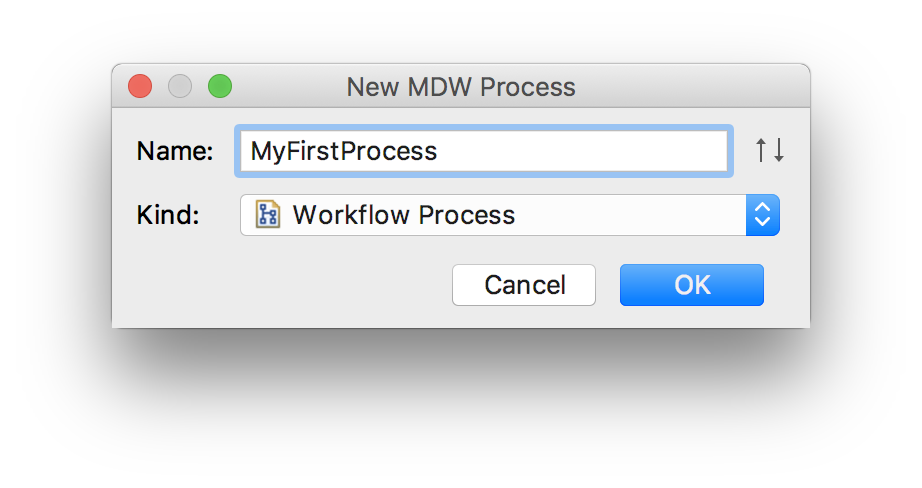
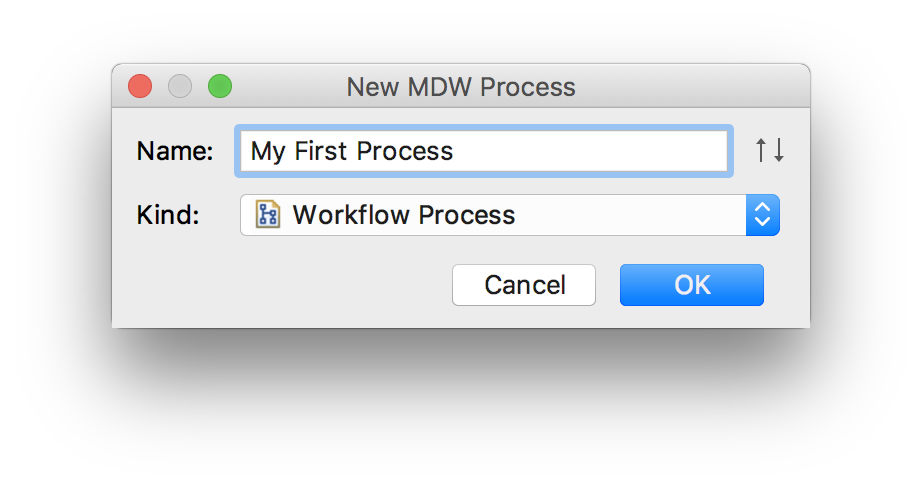
docs and templates [skip ci]

Changed region(s): [[0.3037, 0.2766, 0.4859, 0.3381], [0.3037, 0.4303, 0.577, 0.4611]]

diff --git a/docs/_docs/guides/mdw-studio.md b/docs/_docs/guides/mdw-studio.md
@@ -10,18 +10,19 @@ that enables you to create workflow processes and other assets.
   1. [Install and Run MDW Studio](#1-install-and-run-mdw-studio)
      - 1.1 [Installation](#11-installation) 
      - 1.2 [Create and open a project](#12-create-and-open-a-project)
-  2. [Design a Workflow Process](#2-create-a-workflow-process)
+  2. [Design a Workflow Process](#2-design-a-workflow-process)
      - 2.1 [Create an asset package](#21-create-an-asset-package)
      - 2.2 [Create a workflow process](#22-create-a-workflow-process)
-     - 2.3 [Drag an Activity from the Toolbox](#23-drag-an-activity-from-the-toolbox)
+     - 2.3 [Drag an activity from the Toolbox](#23-drag-an-activity-from-the-toolbox)
      - 2.4 [Configure an Activity](#24-configure-an-activity)
   3. [Run and View Processes](#3-run-and-view-processes)
-     - 3.1 [Build the Spring Boot Jar](#31-build-the-spring-boot-jar)
+     - 3.1 [Build the Spring Boot jar](#31-build-the-spring-boot-jar)
      - 3.2 [Create a Run Configuration](#32-create-a-run-configuration)
-     - 3.3 [Run a flow through MDWHub](#33-run-a-flow-through-mdwhub)
-     - 3.4 [View the runtime instance](#34-view-the-runtime-instance)
-  4. [Create a Custom Activity](#4-create-a-custom-activity)
-  5. [Create a REST Service](#5-create-a-rest-service)
+     - 3.3 [Start the MDW server](#33-start-the-mdw-server)
+     - 3.4 [Run a process through MDWHub](#34-run-a-process-through-mdwhub)
+  4. [Add a Process Variable](#4-add-a-process-variable)
+  5. [Create a Custom Activity](#4-create-a-custom-activity)
+  6. [Create a REST Service](#5-create-a-rest-service)
 
 ## 1. Install and Run MDW Studio
 
@@ -68,13 +69,62 @@ that enables you to create workflow processes and other assets.
       considered an MDW package.
       
 ## 2. Design a Workflow Process
-  - **Create an asset package**
-    - Asset packages are like Java packages, except that they contain a lot more than just .java files.  Unlike code under src/main/java, everything in an 
-      asset package is dynamic and can be reloaded/recompiled at runtime without a build or even a server bounce.  In IntelliJ you create an asset package as
-      you would a standard Java or Kotlin package.
-    - In the project tree, right-click on the assets directory and select New > Package.  Enter a qualified name like this:
-      <img src="../images/studio/new-package.png" alt="New Package" style="width:600px" /><br/>
-  - **Create a workflow process**
-    - Right-click on your new package and select New MDW Process and give it a name:
-      <img src="../images/studio/new-process.png" alt="New Process" style="width:600px" /><br/>
+
+### 2.1 Create an asset package
+  - Asset packages are like Java packages, except that they contain a lot more than just .java files.  Unlike code under src/main/java, everything in an
+    asset package is dynamic and can be reloaded/recompiled at runtime without a build or even a server bounce.  In IntelliJ you create an asset package as
+    you would a standard Java or Kotlin package.
+  - In the project tree, right-click on the assets directory and select New > Package.  Enter a qualified name like this:
+    <img src="../images/studio/new-package.png" alt="New Package" style="width:600px" /><br/>
+
+### 2.2 Create a workflow process
+  - Right-click on your new package and select New MDW Process and give it a name:
+    <img src="../images/studio/new-process.png" alt="New Process" style="width:600px" /><br/>
+    
+### 2.3 Drag an activity from the Toolbox
+  - **Drag from the Toolbox**
+    - Expand the Toolbox by clicking its window button along the right-hand side of the design canvas.
+    - Find the Kotlin Script activity, and use your mouse to drag it onto the canvas somewhere beneath the link connecting Start and Stop.  
+      ![Drag from Toolbox](../images/studio/drag-from-toolbox.png)
+  - **Connect inbound transition**
+    - Select the link connecting Start and Stop by clicking on it.  Hover over the red dot where the link joins Stop.  This should display the crosshair cursor.
+    - Click and drag this red dot to anywhere within the New Kotlin Script activity.
+      ![Move link](../images/studio/move-link.png)
+    - Now select New Kotlin Script and drag it upwards to between Start and Stop.  Notice that the inbound link's endpoint adjusts automatically.
+  - **Connect outbound transition**
+    - To draw a new link, the trick to remember is Shift-Click-Drag.  Select New Kotlin Script again, hold down the Shift key, click and hold the left mouse button,
+      and drag a new line to somewhere within the Stop activity.  When you release the mouse button the transition is anchored.
+    - Note: Transitions are always directional, so they're drawn with an arrow indicating the direction of flow.
+      ![Connected links](../images/studio/connected-links.png)
+    
+### 2.4 Configure an activity
+  - Since the same activity may be used in multiple places, it needs to be configured for the specific location where it lives in a process.
+    Double-click New Kotlin Script activity to open the Configurator window.
+  - On the Definition tab, change the activity name to "Greeting Script".
+  - Select the Design tab, and click the Edit link.  Type some code like this:
+    ```kotlin
+    runtimeContext.logInfo("Hello, World")
+    ```
+  - Close the script dialog and save the process.
+  
+## 3. Run and View Processes
+
+### 3.1 Build the Spring Boot jar
+  - Open the Gradle (or Maven) tool window in IntellJ.  Run the "build" task in Gradle (or the "package" goal in Maven) to create the boot jar.
+  - Check the console output for any build errors.
+  
+### 3.2 Create a Run Configuration
+  - From the menu: Run > Edit Configurations...
+  - Click the `+` icon and select "Jar Application" from the dropdown.
+  - Name the configuration "my-mdw jar", and browse to the boot jar output file.
+  - Enter these vm options: `-Dmdw.runtime.env=dev -Dmdw.config.location=config`
+  - Make sure the Working directory is your project directory.
+    ![Run configuration](../images/studio/run-configuration.png)
+  
+### 3.3 Start the MDW server
+  - From the menu: Run > Debug... > select "my-mdw jar".  Server output appears in the console.
+
+### 3.4 Run a process through MDWHub
+  - Right-click on My First Process in the project tree and select Run Process.
+  - This should open the MDWHub run process page.  Click the run button to execute your flow.
       
